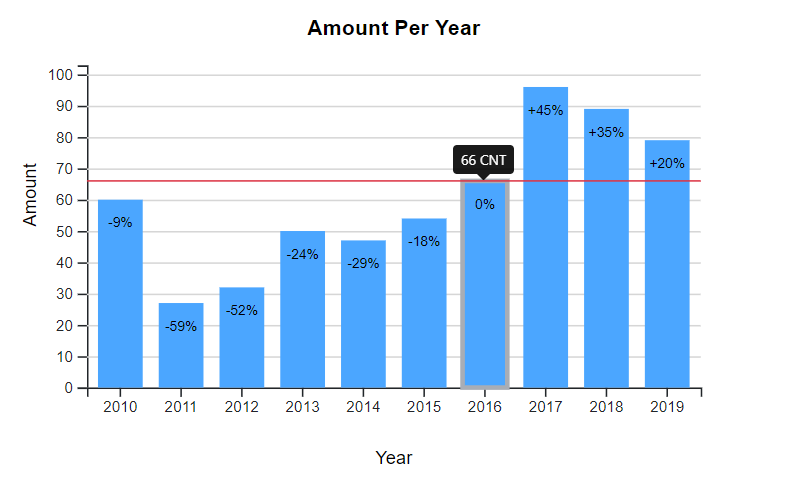
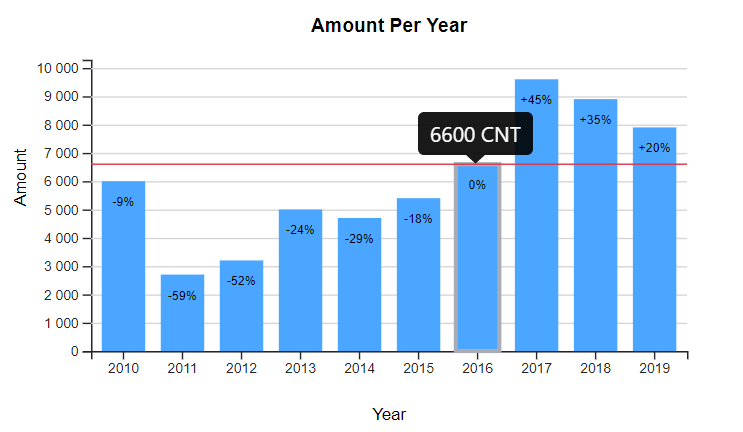
Added yaxis formatting

Changed region(s): [[0.0, 0.1204, 0.9287, 0.8727], [0.3715, 0.0301, 0.6501, 0.0903], [0.4643, 0.9329, 0.5572, 0.9931]]

diff --git a/demo/index.html b/demo/index.html
@@ -47,16 +47,16 @@
     <script type="text/javascript">
 
         let data1 = [
-            {"category":"2010","series":60},
-            {"category":"2011","series":27},
-            {"category":"2012","series":32},
-            {"category":"2013","series":50},
-            {"category":"2014","series":47},
-            {"category":"2015","series":54},
-            {"category":"2016","series":66},
-            {"category":"2017","series":96},
-            {"category":"2018","series":89},
-            {"category":"2019","series":79}
+            {"category":"2010","series":6000},
+            {"category":"2011","series":2700},
+            {"category":"2012","series":3200},
+            {"category":"2013","series":5000},
+            {"category":"2014","series":4700},
+            {"category":"2015","series":5400},
+            {"category":"2016","series":6600},
+            {"category":"2017","series":9600},
+            {"category":"2018","series":8900},
+            {"category":"2019","series":7900}
             ]
 
         let data2 = [
@@ -110,12 +110,12 @@
             title: {label: 'Amount Per Year', size: 14, fontWeight: 'bold'},
             xlabel: {label: 'Year', size: 12},
             ylabel: {label: 'Amount', size: 12},
-            bar: {labels:{size:10, color:'#fff'}},
-            width: 600,
+            bar: {labels:{size:8, color:'#fff'}},
+            width: 650,
             height: 350,
-            margin: {top: 40, bottom: 100, left: 50, right: 150},
+            margin: {top: 40, bottom: 100, left: 70, right: 150},
             xaxis: {font: {size:10}, orientation: 'horizontal'},
-            yaxis: {font: {size:10}, min:0},
+            yaxis: {font: {size:10}, min:0, format:',.0f'},
             colors: ['#4BA6FF'],
             padding: 0.1,
             grid: true,
@@ -135,12 +135,12 @@
             height: 400,
             margin: {top: 40, bottom: 100, left: 60, right: 150},
             xaxis: {font: {size: 10}, orientation: 'skew'},
-            yaxis: {font: {size: 10}},
-            y2axis: {font: {size: 10}, serieIndex: [1]},
+            yaxis: {font: {size: 10}, format:'$'},
+            y2axis: {font: {size: 10}, serieIndex: [1], format:'$'},
             colors: ['#4BA6FF','#0bef41'],
             grid: true,
             tooltip: true,
-            line: {width:2},
+            line: {width:2, labels: true},
             circle: {radius: 4, display: true},
             legend: {coord: {x: 620, y: 50}, font: {size: 12}},
             responsiveness: true
@@ -196,7 +196,7 @@
             type: 'line',
             fontFamily: 'Helvetica',
             width: 700,
-            height: 400,
+            height: 300,
             margin: {top: 40, bottom: 100, left: 60, right: 150},
             xaxis: {font: {size: 10}, orientation: 'skew', format:'%Y-%m-%d', date:true},
             yaxis: {font: {size: 10}},

diff --git a/src/d3Charts.js b/src/d3Charts.js
@@ -1,3 +1,13 @@
+var localeFI = {
+    "decimal": ",",
+    "thousands": "\u00a0",
+    "grouping": [3],
+    "currency": ["", "\u00a0€"]
+  }
+
+var FI = d3.formatLocale(localeFI)
+
+
 function drawComboChart(div,dataset,opt){
 
     // set default values
@@ -23,7 +33,7 @@ function drawComboChart(div,dataset,opt){
     let width = options.width || 500
     let xaxis = options.xaxis || {font: {size: 10}, orientation: 'horizontal', format: false, tickCount: (dataset) ? dataset.length : 0, date:false}
     let xlabel = options.xlabel || {label:'', size:10, fontWeight: 'normal'}
-    let yaxis = options.yaxis || {font: {size: 10}}
+    let yaxis = options.yaxis || {font: {size: 10}, format: false}
     let ylabel = options.ylabel || {label:'', size:10, fontWeight: 'normal'}
     let y2axis = options.y2axis || false
     let y2label = options.y2label || {label:'', size:10, fontWeight: 'normal'}
@@ -190,6 +200,7 @@ function drawComboChart(div,dataset,opt){
     // create Y1-axis
     if (series1.length > 0){
         var axisY1 = d3.axisLeft(y1Scale)
+        axisY1.tickFormat(FI.format(yaxis.format || ''))
         svg.append('g')
             .attr('class', 'axisy1')
             .style('font-size', yaxis.font.size || 12)
@@ -200,6 +211,7 @@ function drawComboChart(div,dataset,opt){
     // create Y2-axis
     if (series2.length > 0){
         var axisY2 = d3.axisRight(y2Scale)
+        axisY2.tickFormat(FI.format(yaxis.format || ''))
         svg.append('g')
             .attr('class', 'axisy2')
             .style('font-size', y2axis.font.size || 12)
@@ -239,7 +251,7 @@ function drawComboChart(div,dataset,opt){
 
     if (xaxis.format){
         if (xaxis.date){axisX.tickFormat(d3.timeFormat(xaxis.format))}
-        else {axisX.tickFormat(d3.format(xaxis.format))}
+        else {axisX.tickFormat(FI.format(xaxis.format))}
     }
 
     svg.append('g')

diff --git a/README.md b/README.md
@@ -88,8 +88,8 @@ List of all possible parameters that can be defined
 | width | Width of the element |  | `500` | All |
 | xaxis | X-axis options | `{font: {size: 12}, orientation: 'vertical/skew/horizontal', ticksCount: 10, format:'%Y-%m-%d', date:true/false}` | `{font: {size: 10}, orientation: 'horizontal', date:false}` | ComboChart (dates works only with line-chart) |
 | xlabel | X-axis label options | `{label:'Year', size:12, fontWeight: 'normal'}` | - | ComboChart |
-| yaxis | Y-axis options |  | `{font: {size: 10}, min:10, max:200}` | ComboChart |
-| y2axis | Secondary Y-axis options. serieIndex list the serie indexes that applies to secondary axis | `{serieIndex:[1,2] , font: {size: 10}, min:10, max:200}` | `false` | ComboChart |
+| yaxis | Y-axis options | `{font: {size: 10}, min:10, max:200, format:',.2f'}` | `{font: {size: 10},format:false}` | ComboChart |
+| y2axis | Secondary Y-axis options. serieIndex list the serie indexes that applies to secondary axis | `{serieIndex:[1,2], font: {size: 10}, min:10, max:200, format:'$'}` | `false` | ComboChart |
 | ylabel | Y-axis label options | `{label:'Amount', size:12, fontWeight: 'normal'}` | - | ComboChart |
 | y2label | Secondary Y-axis label options | `{label:'Costs', size:12, fontWeight: 'normal'}` | - | ComboChart |
 
